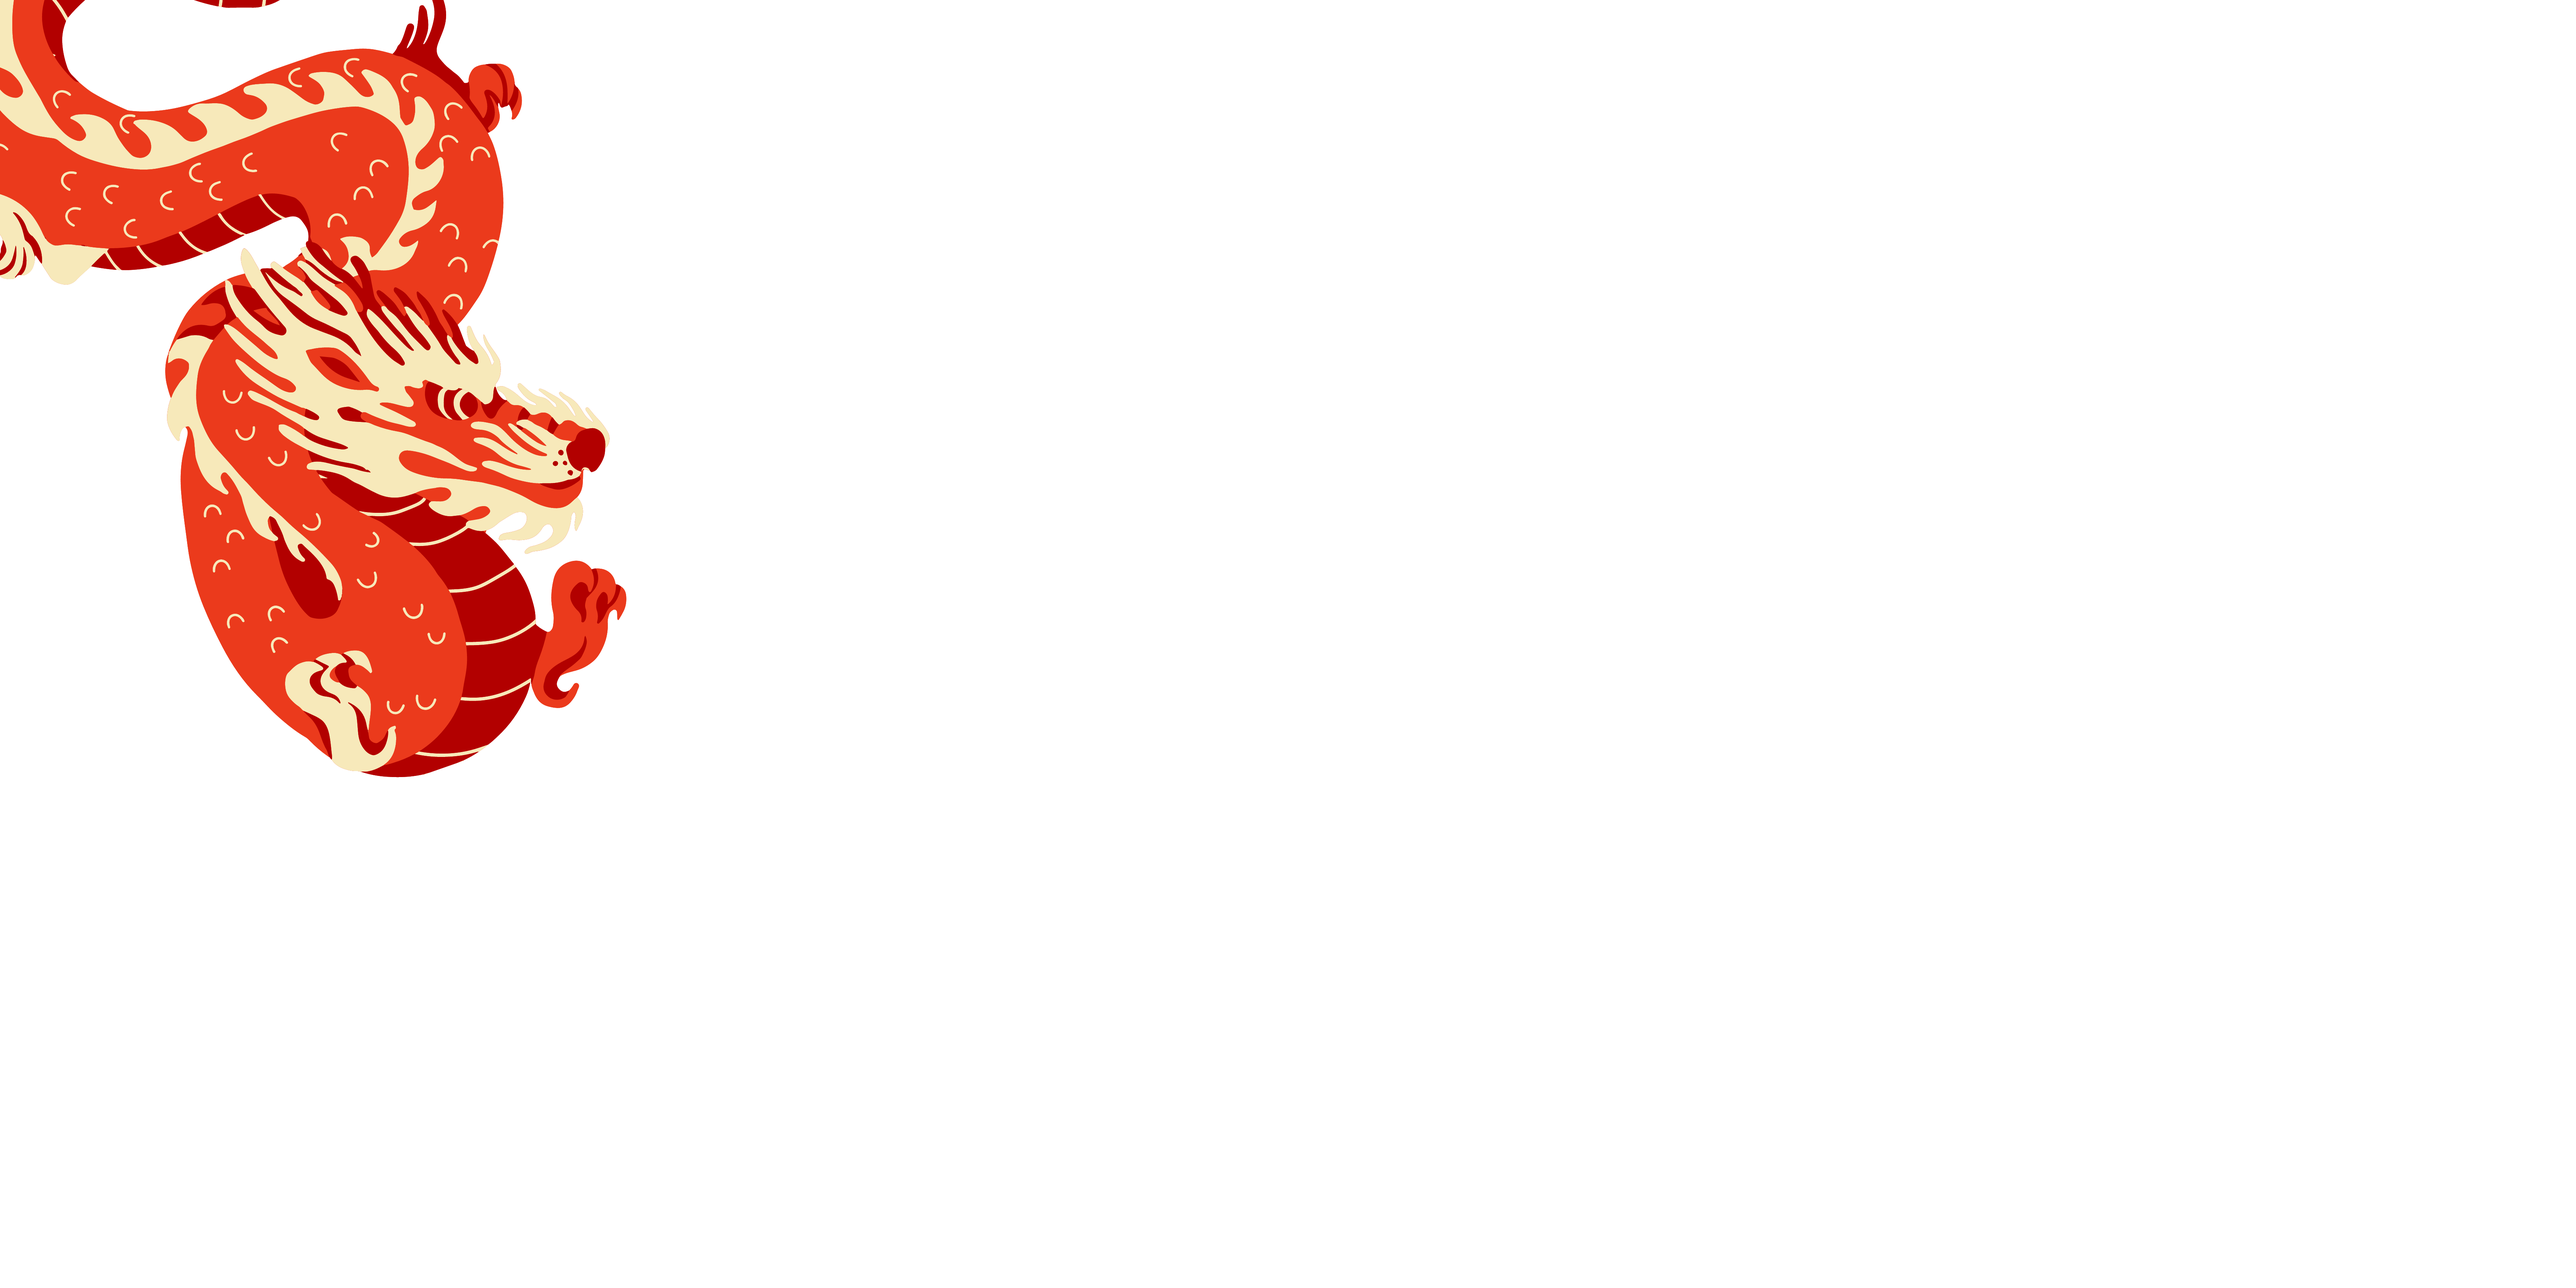
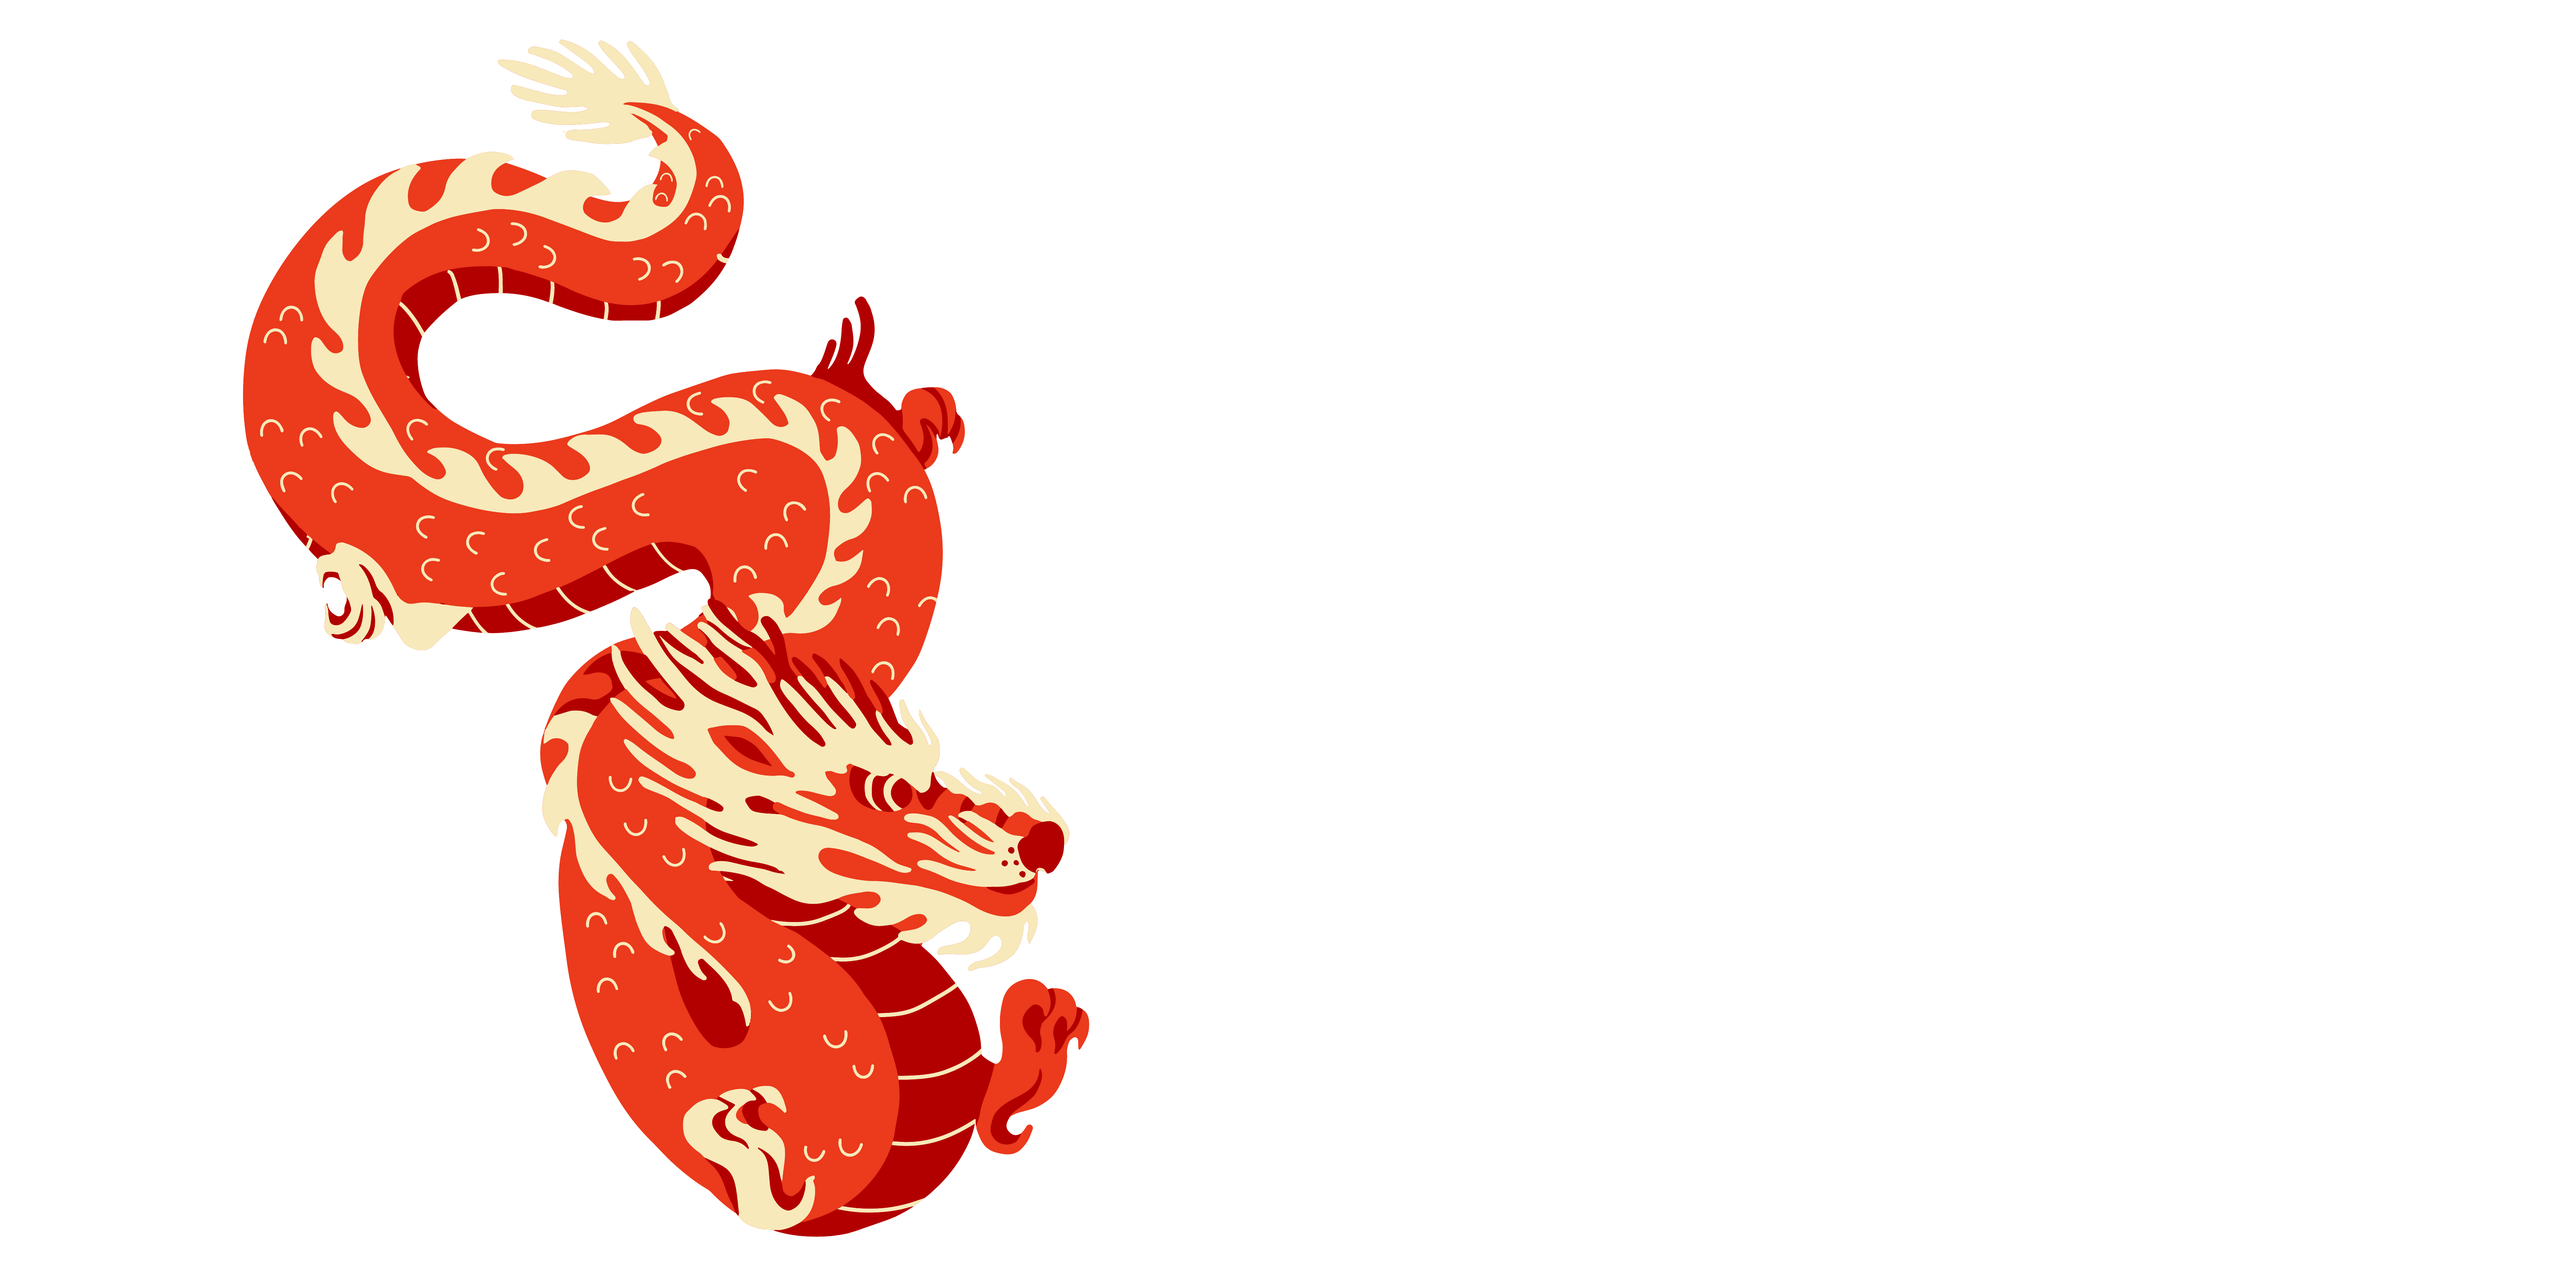
final change

Changed region(s): [[0.0, 0.0, 0.4375, 0.9688]]

diff --git a/js/displayAll.js b/js/displayAll.js
@@ -6,8 +6,8 @@ function displayAll(){
     this.number2020 = document.getElementsByClassName("number"); // Các chữ số trong 2020
     this.textTet = document.getElementsByClassName("textTet")[0]; // Không biết gọi thế nào :)
     this.slogan = document.getElementsByClassName("slogan")[0]; // Câu nói hay ho năm canh tý
-    // this.iconSetting = document.getElementsByClassName("icon-setting")[0]; // icon setting
-    // this.setting = document.getElementsByClassName("setting")[0]; // Bảng setting
+    this.iconSetting = document.getElementsByClassName("icon-setting")[0]; // icon setting
+    this.setting = document.getElementsByClassName("setting")[0]; // Bảng setting
 
     // Hàm hiển thị các phần tử với giá trị Top, thời gian bắt đầu, thời gian lặp qua từng phần tử,
     // mảng phần tử, loại vị trí, giá trị, đơn vị đo của giá trị Top
@@ -53,6 +53,7 @@ function displayAll(){
             this.imgFamily[0].style.opacity = "1";
             this.imgFamily[1].style.opacity = "1";
         }, 1500);
+
     };
     // Hiển thị lồng đèn
     this.displayLentern = function(){

diff --git a/index.html b/index.html
@@ -23,7 +23,7 @@
         </div>
         <div class="sky"></div>
         <img class="family" src="imgs/family.png" />
-        <img class="family" src="imgs/family-goi-banh.png" />
+        <img class="family" src="imgs/dragon1.png" />
         <img class="textTet" src="imgs/tet.png" />
         <img class="number" src="imgs/2_2.png" />
         <img class="number" src="imgs/0_1.png" />
@@ -102,10 +102,10 @@
         <div class="cracker"></div>
         <div class="cracker"></div>
     </div>
-        <!-- <div class="setting">
+        <div class="setting">
             <img class="icon-setting" src="imgs/settings.png" />
-            <audio src="mp3/ConBuomXuan-HoQuangHieu-2577880.mp3" controls="controls"></audio>
-        </div> -->
+            <audio src="music/audio.mp3" controls="controls"></audio>
+        </div>
     </body>
     <script src="js/displayAll.js"></script>
     <script src="js/objectFly/configFly.js"></script>

diff --git a/css/index.css b/css/index.css
@@ -90,7 +90,7 @@ body {
     position: fixed;
     opacity: 0;
     transition: 3s;
-    
+
 }
 .family:nth-child(4) {
     left: 2.5%;
@@ -99,10 +99,23 @@ body {
     height: 40%;
 }
 .family:nth-child(5) {
-    left: 79%;
-    bottom: 600px;
-    width: 20%;
-    height: 35%;
+    left: 73%;
+    bottom: 4   00px;
+    width: 65%;
+    height: 50%;
+    opacity: 0;
+    animation: bounce 1s linear 2.5s infinite alternate; /* Thêm cubic-bezier cho chuyển động mượt mà */
+}
+@keyframes bounce {
+    0%, 20%, 50%, 80%, 100% {
+        transform: translateY(0);
+    }
+    40% {
+        transform: translateY(-20px);
+    }
+    60% {
+        transform: translateY(-10px);
+    }
 }
 @keyframes animationTopDownTextTet {
     to {
